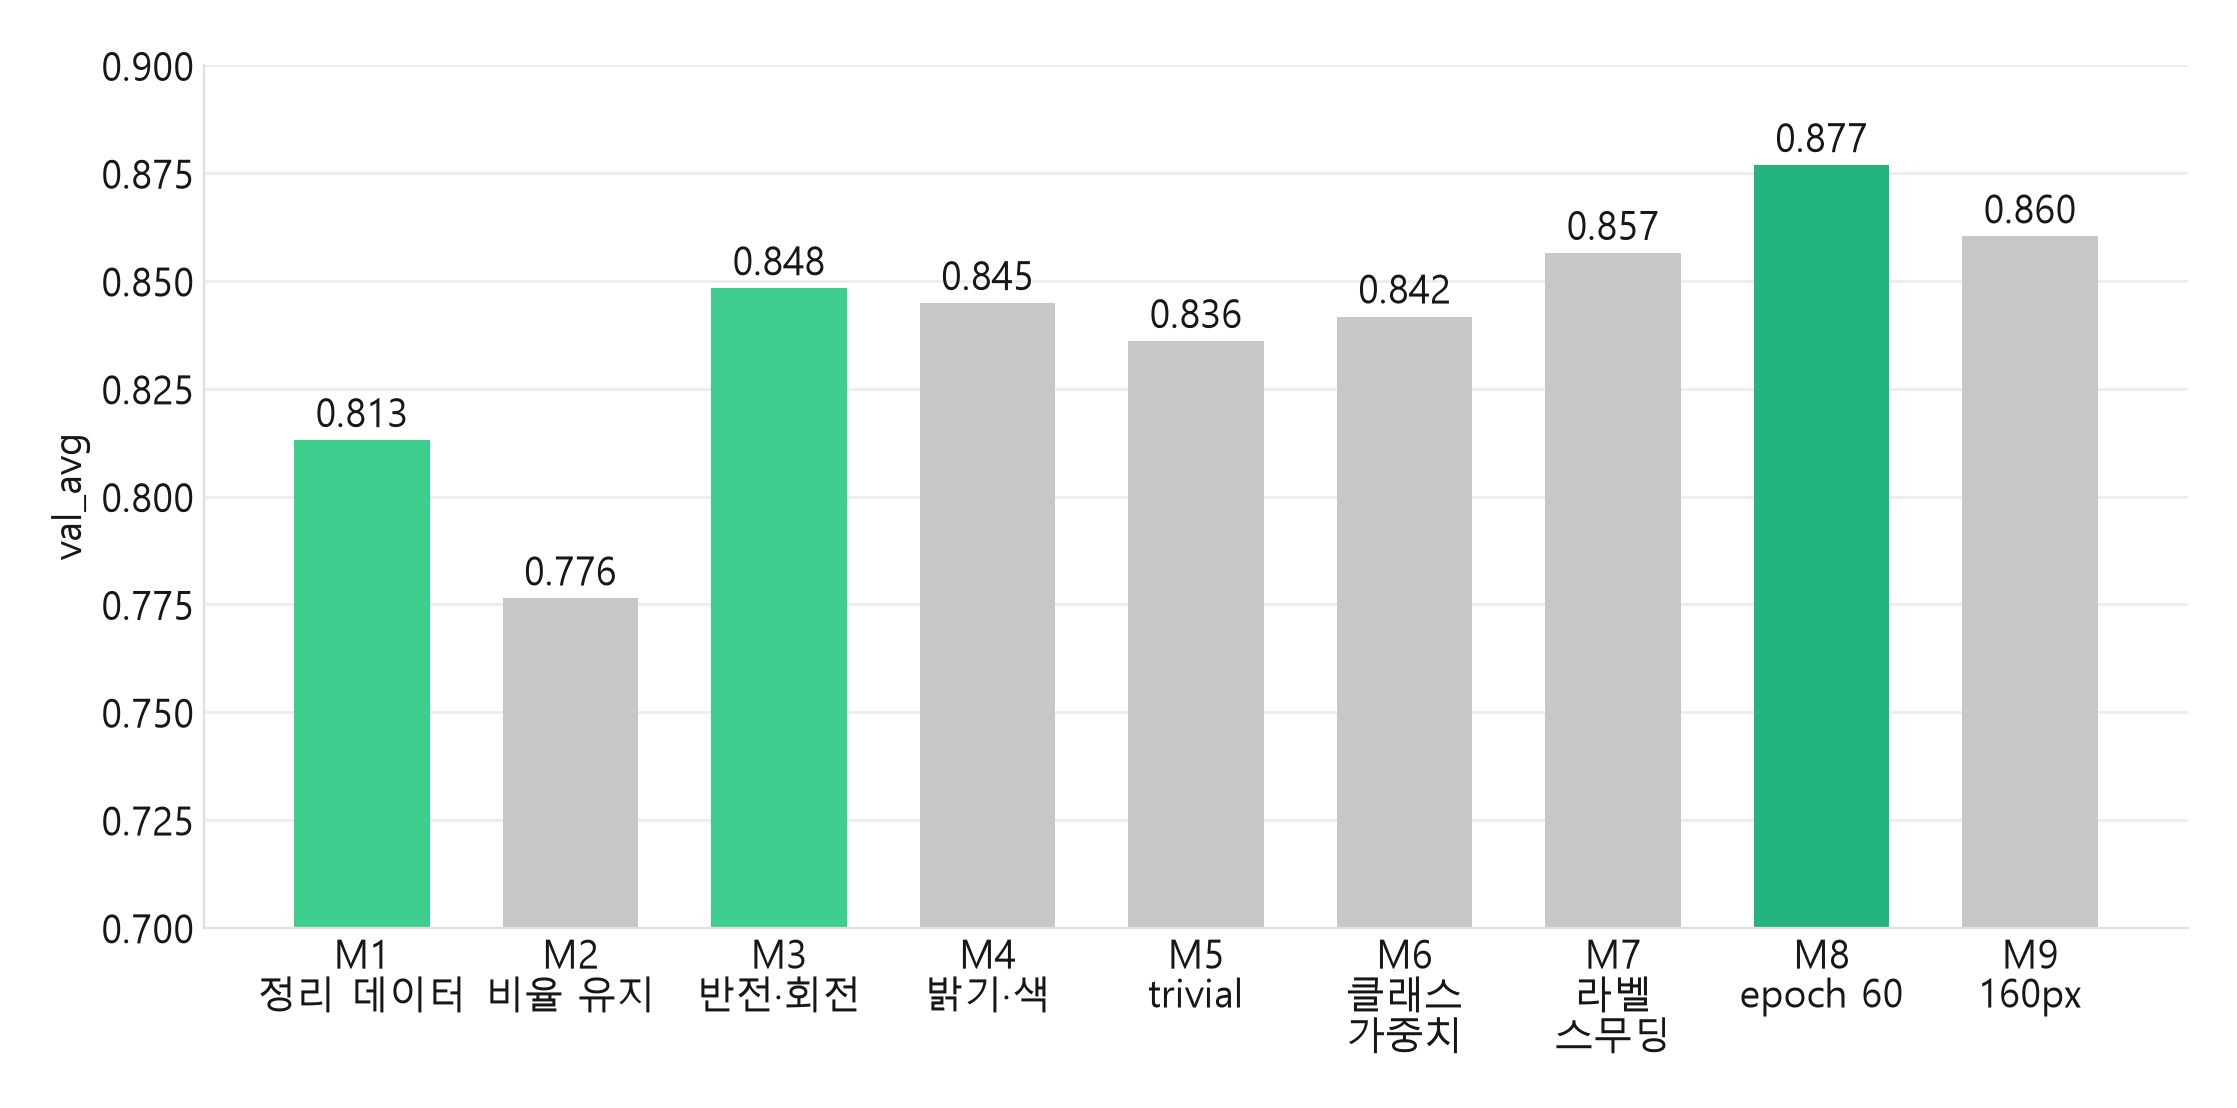
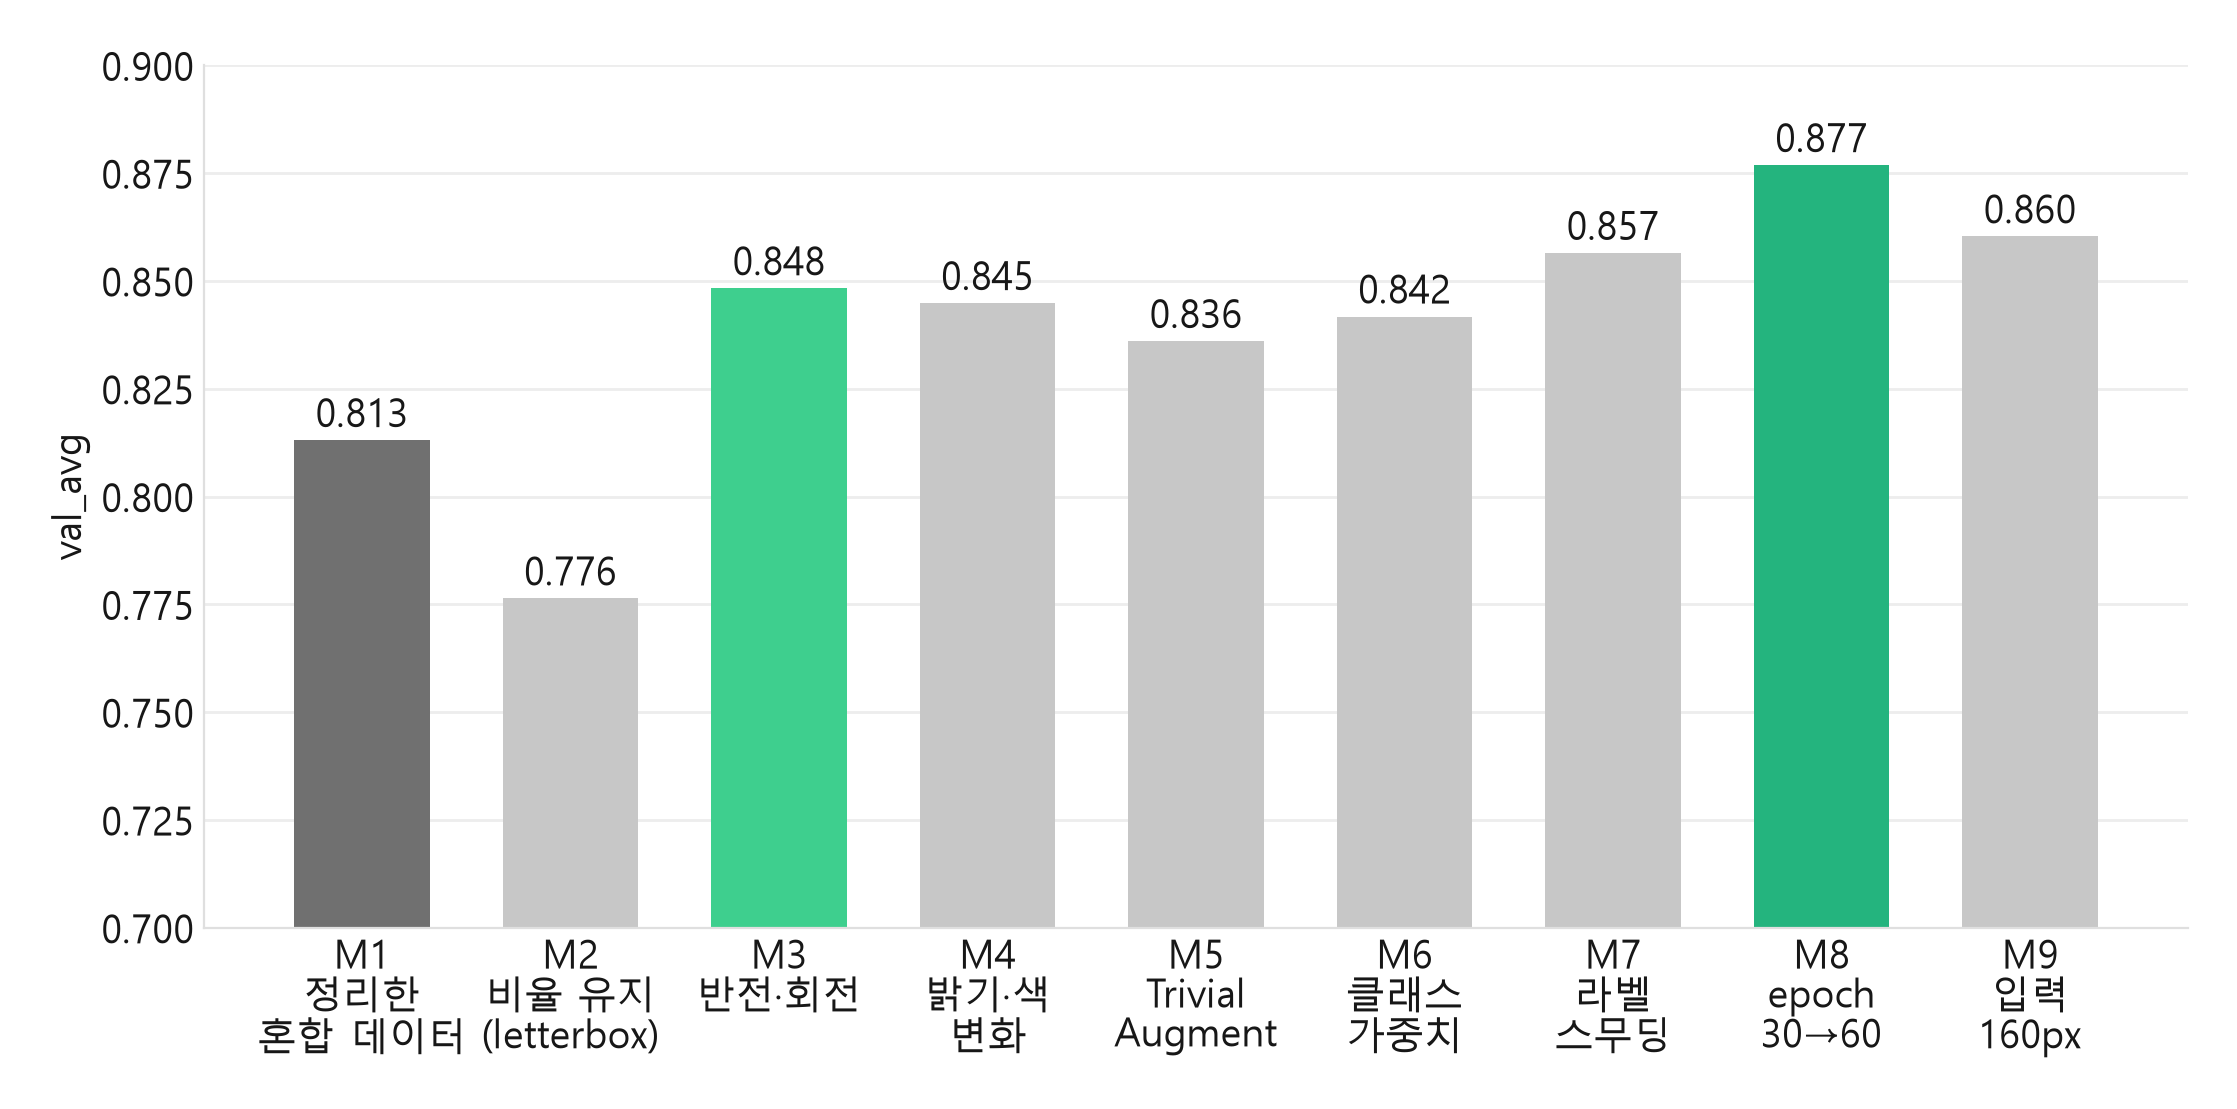
Slide figure: ladder M1 as baseline gray, labels match flowchart
Also adds loss_curve() (M8 train/val loss) figure for the overfitting slide.

diff --git a/01_coding/tools/make_slide_figures.py b/01_coding/tools/make_slide_figures.py
@@ -59,9 +59,11 @@ def class_counts():
 
 def ladder_val_avg():
     d = pd.read_csv(ROOT / "experiments/ladder_m.csv")
-    short = {"M1": "정리 데이터", "M2": "비율 유지", "M3": "반전·회전", "M4": "밝기·색",
-             "M5": "trivial", "M6": "클래스\n가중치", "M7": "라벨\n스무딩", "M8": "epoch 60", "M9": "160px"}
-    cols = [DEEP if i == "M8" else MAIN if a else GRAY for i, a in zip(d["id"], d["adopted"])]
+    short = {"M1": "정리한\n혼합 데이터", "M2": "비율 유지\n(letterbox)", "M3": "반전·회전", "M4": "밝기·색\n변화",
+             "M5": "Trivial\nAugment", "M6": "클래스\n가중치", "M7": "라벨\n스무딩", "M8": "epoch\n30→60",
+             "M9": "입력\n160px"}
+    # M1은 출발점(진회색), 반영된 단계 M3·M8만 초록
+    cols = [SUB if i == "M1" else DEEP if i == "M8" else MAIN if i == "M3" else GRAY for i in d["id"]]
     fig, ax = plt.subplots(figsize=FULL)
     x = np.arange(len(d))
     ax.bar(x, d["val_avg"], color=cols, width=0.65)
@@ -198,7 +200,32 @@ def dirty_by_corruption():
     return d.ok.mean(), clean, d[d.corruption != "none"].ok.mean()
 
 
+def loss_curve():
+    """M8 train·val 손실: val loss 최저 epoch와 저장한 epoch 50을 표시 (과적합 점검)"""
+    h = pd.read_csv(ROOT / "experiments/M8/history.csv")
+    i = h["val_loss"].idxmin()
+    lo_ep, lo = int(h.loc[i, "epoch"]), h.loc[i, "val_loss"]
+    s = h[h["epoch"] == 50].iloc[0]
+    fig, ax = plt.subplots(figsize=HALF)
+    ax.plot(h["epoch"], h["train_loss"], color=TEXT, lw=2, label="train loss")
+    ax.plot(h["epoch"], h["val_loss"], color=DEEP, lw=2, label="val loss")
+    ax.scatter([lo_ep], [lo], color=DEEP, s=60, zorder=3)
+    ax.annotate(f"최저 epoch {lo_ep}\n{lo:.3f}", (lo_ep, lo), xytext=(lo_ep - 4, lo + 0.45),
+                ha="center", fontsize=FS, color=TEXT, arrowprops=dict(arrowstyle="-", color=TERT))
+    ax.axvline(50, color=TERT, ls=":", lw=1.8)
+    ax.annotate(f"저장 epoch 50\nval {s.val_loss:.3f}", (50, s.val_loss), xytext=(48.5, s.val_loss + 0.55),
+                ha="right", fontsize=FS, color=SUB, arrowprops=dict(arrowstyle="-", color=TERT))
+    ax.set_xlabel("epoch")
+    ax.set_ylabel("손실 (loss)")
+    ax.set_ylim(0, max(h["train_loss"].max(), h["val_loss"].max()) * 1.05)
+    ax.legend(frameon=False, fontsize=FS, loc="upper center")
+    style_axes(ax)
+    save(fig, "loss_curve.png")
+    return lo_ep, lo, s.val_loss
+
+
 if __name__ == "__main__":
+    print("M8 val loss min epoch/value, ep50", [round(float(x), 3) for x in loss_curve()])
     print("class total", class_counts())
     print("val_avg", {k: round(v, 3) for k, v in ladder_val_avg().items()})
     curves_m1_m3_m8()
